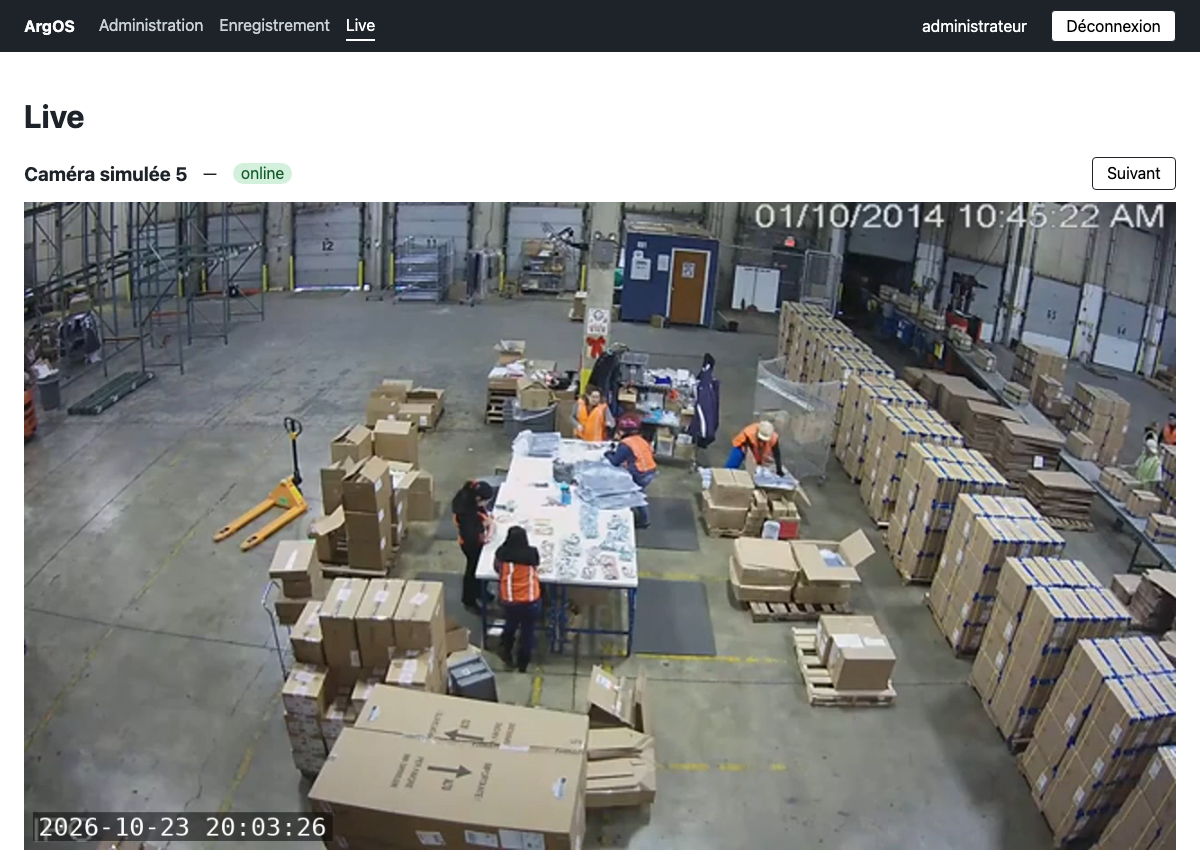
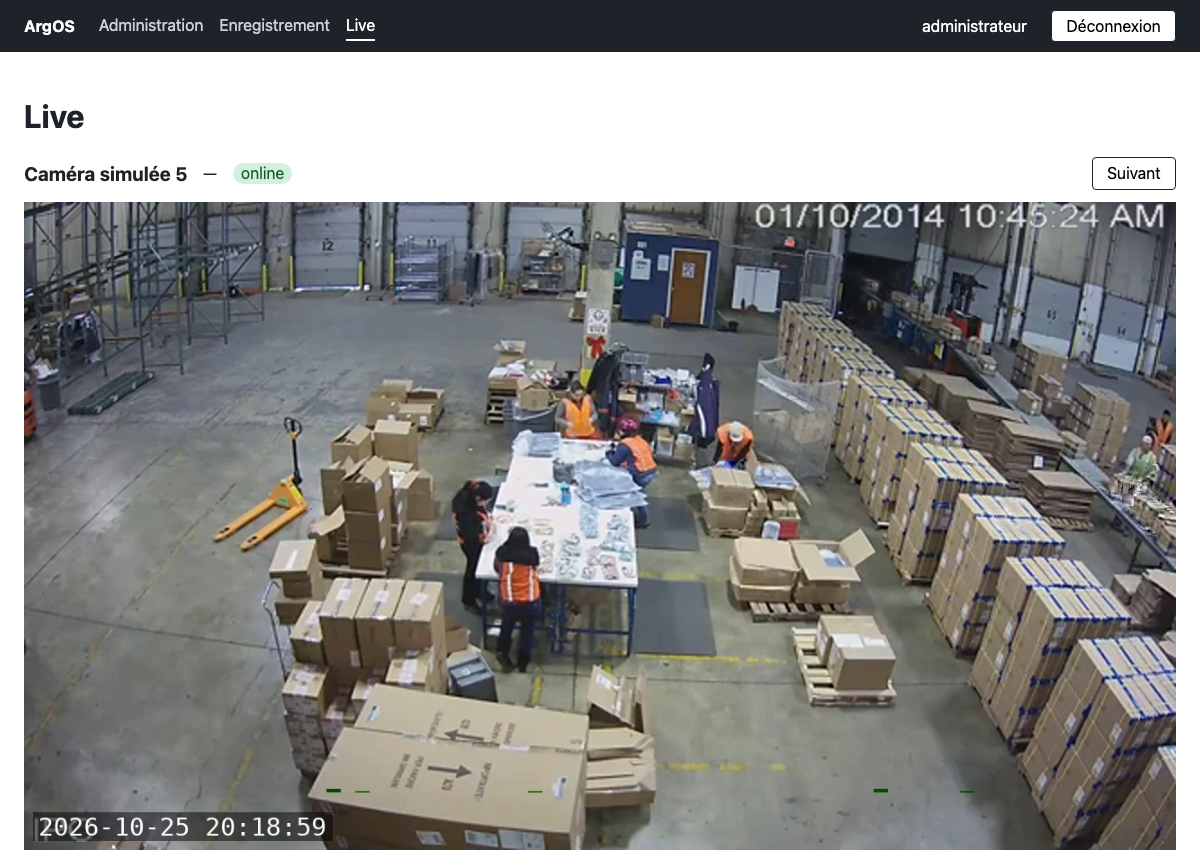
Ajoute les preuves des tests humains de la V0.9.1 et la doc des fonctionnalités de l'heure
Scénarios 9, 10 et 11 joués sur le Site Ubuntu et Cam 01 (chaque fuseau proposé donne la bonne date incrustée), 11 rejoué sur la Caméra simulée 5 ; Cam 01 qualifiée avec son firmware, pages Heure ajoutées à la doc des fonctionnalités.

diff --git a/docs-site/sidebars.ts b/docs-site/sidebars.ts
@@ -24,6 +24,18 @@ const sidebars: SidebarsConfig = {
         },
       ],
     },
+    {
+      type: 'category',
+      label: 'Heure et calage',
+      collapsed: false,
+      items: [
+        {
+          type: 'doc',
+          id: 'features/heure/serveur-de-temps-et-calage',
+          label: 'Serveur de temps et calage',
+        },
+      ],
+    },
   ],
   changelogSidebar: [
     {

diff --git a/docs/features/heure/serveur-de-temps-et-calage.md b/docs/features/heure/serveur-de-temps-et-calage.md
@@ -1,0 +1,130 @@
+# Serveur de temps et calage des Caméras
+
+Comment le Site donne l’heure aux Caméras, ce qu’il envoie comme fuseau (surtout au changement d’heure), ce qu’il ne fait **pas**, et ce que ça implique pour l’incrustation Live et pour les enregistrements.
+
+Décisions : [ADR 0014](../../adr/0014-serveur-de-temps-du-site.md) (Serveur de temps), [ADR 0015](../../adr/0015-mise-a-l-heure-a-chaque-verification.md) (Mise à l’heure + décalage du moment + base des fuseaux). Termes : [Heure du Site](../../glossaire.md#heure-du-site), [Horloge](../../glossaire.md#horloge), [Serveur de temps du Site](../../glossaire.md#serveur-de-temps-du-site), [Mise à l’heure](../../glossaire.md#mise-a-l-heure). Caméras essayées : [Caméras qualifiées](../../cameras/compatibilite.md). Limites réseau / NTP : [sécurité](../../securite.md#réseau-des-caméras--une-sortie-et-ntp).
+
+## En bref
+
+- **`temps`** (chrony) sert l’heure en **NTP (UTC)** sur le réseau des caméras. Il ne règle jamais l’horloge de l’hôte.
+- L’**Heure du Site** (page Admin) fixe la **source** NTP (ex. `pool.ntp.org`) et le **fuseau** (ex. `Europe/Paris`).
+- À chaque **vérification**, le Site **met à l’heure** puis **cale** chaque Caméra ONVIF active : UTC lue chez `temps` + **décalage du moment** du fuseau du Site (sans règles d’heure d’été).
+- La référence, c’est toujours le Site. ArgOS **ne** calcule **pas** un fuseau « compensateur » à partir d’un décalage faux lu sur la caméra.
+- Les **Segments** d’enregistrement sont horodatés en **UTC** : au passage 3 h → 2 h, rien n’est réécrit ; deux instants locaux « 02 h » restent deux fichiers distincts. L’UI peut afficher le même libellé murale deux fois.
+
+## Schéma
+
+```text
+Internet (pool.ntp.org…)              Caméras
+        │                                ▲
+        ▼                                │ NTP (UTC) + ONVIF
+   ┌─────────┐                     ┌──────────┐
+   │  temps  │ ──── NTP ─────────► │ Caméras  │  incrustation = heure locale
+   └─────────┘                     └──────────┘
+        ▲                                ▲
+        │ lit / pilote                   │ Mise à l’heure + calage
+   ┌─────────┐                           │
+   │   api   │───────────────────────────┘
+   └─────────┘
+   Heure du Site = source + fuseau (Europe/Paris…)
+```
+
+Sans macvlan (Mac / Docker Desktop), `temps` publie `123/udp` sur l’hôte. En prod Linux avec réseau des caméras, `temps` a sa propre IP macvlan et ne sert que le NTP ([ADR 0014](../../adr/0014-serveur-de-temps-du-site.md)).
+
+## Heure du Site
+
+Réglages (persistés) :
+
+| Réglage | Rôle |
+| --- | --- |
+| Source | `ntp` (serveur nommé) ou horloge du serveur (repli) |
+| Serveur NTP | ex. `pool.ntp.org` — transmis à `temps` via le volume `reglage-temps` |
+| Fuseau | ex. `Europe/Paris` — défaut = fuseau de l’hôte |
+
+La page **Heure du Site** affiche aussi la **base des fuseaux** utilisée pour calculer les décalages (`2026e (serveur)` = base de l’hôte ; sinon base embarquée dans l’image). Voir [second avenant ADR 0015](../../adr/0015-mise-a-l-heure-a-chaque-verification.md#second-avenant-091--base-des-fuseaux-de-lhôte-dabord).
+
+## Ce que le Site envoie à une Caméra
+
+Depuis la 0.9.1, pour `Europe/Paris` :
+
+| Moment | Décalage envoyé (POSIX simplifié) | Sens |
+| --- | --- | --- |
+| Heure d’été | `CEST-2` | UTC+2 |
+| Heure d’hiver | `CET-1` | UTC+1 |
+
+- **Pas** la chaîne complète avec règles d’heure d’été (`CET-1CEST,M3.5.0,M10.5.0/3`) : beaucoup de caméras (ex. [Cam 01](../../cameras/compatibilite.md#cam-01)) ne les appliquent pas et restent bloquées à un mauvais offset.
+- `DaylightSavings` est toujours envoyé à **`false`** : on ne compte pas sur la caméra pour « savoir » qu’on a changé d’heure.
+- Si l’abréviation n’est pas utilisable (`+01`, `UTC`, `GMT`), le Site envoie un nom neutre (`ARGOS-1`, `ARGOS0`).
+
+### Ce que le Site ne fait pas
+
+Il **ne** lit **pas** un fuseau faux sur la caméra pour en déduire un offset qui « annule » l’écart.
+
+Enchaînement réel :
+
+1. Calculer le décalage **juste** du fuseau du Site (base des fuseaux).
+2. Pousser UTC + ce décalage (Mise à l’heure), puis recaler en NTP vers le Serveur de temps.
+3. Relire l’Horloge : écart ≤ 2 s **et** bon décalage → « à l’heure » ; sinon → **« écart »** (journal API).
+
+Exemple : caméra coincée en UTC+2 en hiver → le Site continue d’envoyer `CET-1` aux vérifs suivantes ; il ne lui envoie pas un « UTC+0 compensateur ».
+
+## Quand a lieu une vérification
+
+- Ajout d’une Caméra / changement de l’Heure du Site.
+- **Toutes les heures.**
+- Bouton **« Vérifier maintenant »**.
+- **À l’instant exact** de chaque changement d’heure du fuseau du Site (recalculé après chaque changement et à chaque changement de fuseau).
+
+À chaque vérification ONVIF active : Mise à l’heure puis calage ([ADR 0015](../../adr/0015-mise-a-l-heure-a-chaque-verification.md)).
+
+Site arrêté pendant un changement d’heure : au redémarrage, la vérification horaire reprend et corrige.
+
+## Exemple concret : passage 3 h → 2 h (France)
+
+Dimanche de passage à l’heure d’hiver (3 h légales → 2 h) :
+
+1. La base des fuseaux sait que `Europe/Paris` passe de UTC+2 à UTC+1.
+2. ArgOS a mémorisé l’instant du prochain changement.
+3. À cet instant, vérification de **toutes** les Caméras actives.
+4. Chaque Caméra ONVIF reçoit `CET-1` (plus l’UTC de `temps`), puis le calage NTP.
+5. Quelques secondes peuvent séparer le coup d’horloge légal et la fin de la vérif : une caméra peut encore afficher l’ancien décalage le temps de la passe.
+
+L’UTC côté NTP **ne recule pas**. Seul l’affichage / l’incrustation locale change de décalage.
+
+## Enregistrements et relecture
+
+Les Segments fMP4 sont nommés et lus en **heure UTC du conteneur** (`%Y-%m-%d_%H-%M-%S-%f`, voir `api/argos_api/segments_fermes.py`). La relecture demande un `start` en RFC 3339 (absolu).
+
+Au passage 3 h → 2 h :
+
+- **Rien n’est réécrit** ni écrasé pour « libérer » l’heure locale.
+- Les deux plages locales « 02 h – 03 h » de ce dimanche correspondent à **deux intervalles UTC distincts** → deux suites de Segments distincts.
+- La timeline ordonne au temps réel (UTC), pas à l’horloge murale ambiguë.
+
+### Affichage dans l’UI
+
+Les libellés de relecture passent par l’heure locale du navigateur (`toLocaleString` / `toLocaleTimeString`). Il n’y a **pas** de mode « deux fuseaux » ni de sélecteur « première / deuxième 2 h ».
+
+Conséquence : deux Segments distincts peuvent afficher le **même** texte « 02:15 ». L’ordre sur la timeline et le `start` cliqué restent univoques.
+
+*(Si l’horloge de l’hôte est fausse et que `temps` est en repli dessus, les Segments peuvent être mal datés — limite ADR 0014, indépendante du changement d’heure.)*
+
+## Compatibilité caméras
+
+La stratégie « décalage du moment » vise à marcher :
+
+- pour une caméra qui **ignore** l’heure d’été ;
+- pour une caméra qui **saurait** l’appliquer (on ne lui demande pas).
+
+Ce n’est **pas** une garantie pour toute caméra du marché :
+
+- sans ONVIF utile → pas de calage (« sans ONVIF ») ;
+- comportement exotique (sens de `UTC` inversé, refus du mode manuel, autre décalage gardé) → **« écart »** jusqu’à qualification ou bug.
+
+Procédure et liste : [Caméras qualifiées](../../cameras/compatibilite.md).
+
+## Voir aussi
+
+- Page Admin **Heure du Site** (source, fuseau, base des fuseaux, tableau des Caméras).
+- [Paramétrer une Caméra](../../cameras/parametrer-une-camera.md) (ONVIF, essais manuels).
+- [Inspecter les enregistrements](../../cameras/inspecter-les-enregistrements.md) (volume, noms de Segments).

diff --git a/docs/cameras/compatibilite.md b/docs/cameras/compatibilite.md
@@ -8,7 +8,7 @@ Pour aller plus loin : [Paramétrer une Caméra](parametrer-une-camera.md), [ADR
 
 | Caméra | Marque, modèle, firmware (`GetDeviceInformation`) | Ce qu'elle fait d'un fuseau | Ce qu'Argos lui envoie | Qualifiée |
 | --- | --- | --- | --- | --- |
-| [`Cam 01`](#cam-01) | `H264`, `IPC_GK7201V200_G3H_S38` (puce Goke, firmware XiongMai) ; version du firmware à relever | Garde le décalage seul, jamais d'heure d'été, `UTC` lu à l'envers | Décalage du moment (`CEST-2` / `CET-1`), `DaylightSavings=false`, ONVIF en HTTP sur `8899` | 0.9.1 |
+| [`Cam 01`](#cam-01) | `H264`, `IPC_GK7201V200_G3H_S38` (puce Goke, firmware XiongMai), firmware `V1.00.T01.000929ST.10010.141000.S.ONVIF 21.06` | Garde le décalage seul, jamais d'heure d'été, `UTC` lu à l'envers | Décalage du moment (`CEST-2` / `CET-1`), `DaylightSavings=false`, ONVIF en HTTP sur `8899` | 0.9.1 |
 
 ### Cam 01
 
@@ -22,7 +22,7 @@ La caméra de dev décrite dans [Paramétrer une Caméra](parametrer-une-camera.
 | `UTC-2` | `FNT2` | UTC−2 ❌ (sens inversé) |
 | `CET-1` | `CET-1CEST` | UTC+1 ✅ (hiver) |
 
-Elle ne garde que le décalage du fuseau (en le renommant à sa façon), n'applique jamais l'heure d'été et inverse le sens d'un fuseau nommé `UTC`. Depuis la 0.9.1, le Site lui envoie le décalage du moment, sans règles ([avenant à l'ADR 0015](../adr/0015-mise-a-l-heure-a-chaque-verification.md#avenant-091--fuseau-envoyé-en-décalage-du-moment)) : sa date incrustée est l'heure locale du Site, été comme hiver, et le Site la recale à chaque changement d'heure. Ce décalage vient de la base des fuseaux du serveur ([second avenant](../adr/0015-mise-a-l-heure-a-chaque-verification.md#second-avenant-091--base-des-fuseaux-de-lhôte-dabord)) : pour qualifier une caméra, noter la base affichée sur la page Heure du Site. La Caméra simulée 5 l'imite (`ONVIF_FUSEAU_DECALAGE_SEUL`, [simulation ONVIF](../../simulation/onvif/README.md)).
+Elle ne garde que le décalage du fuseau (en le renommant à sa façon), n'applique jamais l'heure d'été et inverse le sens d'un fuseau nommé `UTC`. Depuis la 0.9.1, le Site lui envoie le décalage du moment, sans règles ([avenant à l'ADR 0015](../adr/0015-mise-a-l-heure-a-chaque-verification.md#avenant-091--fuseau-envoyé-en-décalage-du-moment)) : sa date incrustée est l'heure locale du Site, été comme hiver, et le Site la recale à chaque changement d'heure. Ce décalage vient de la base des fuseaux du serveur ([second avenant](../adr/0015-mise-a-l-heure-a-chaque-verification.md#second-avenant-091--base-des-fuseaux-de-lhôte-dabord)) : pour qualifier une caméra, noter la base affichée sur la page Heure du Site. Qualifiée le 25/10/2026 (tests humains de la 0.9.1, #148) : les 23 fuseaux proposés par Heure du Site, un par un, en heure d'hiver, donnent la date incrustée de l'heure locale de chaque fuseau (à la latence du Live près) ; elle garde `ARGOS0` en `UTC0`. La Caméra simulée 5 l'imite (`ONVIF_FUSEAU_DECALAGE_SEUL`, [simulation ONVIF](../../simulation/onvif/README.md)).
 
 ## Qualifier une nouvelle caméra
 

diff --git a/docs/adr/0014-serveur-de-temps-du-site.md b/docs/adr/0014-serveur-de-temps-du-site.md
@@ -1,5 +1,7 @@
 # Serveur de temps du Site sur le réseau des caméras
 
+Vue produit (calage, changement d’heure, enregistrements) : [Serveur de temps et calage des Caméras](../features/heure/serveur-de-temps-et-calage.md).
+
 Complète l'[ADR 0003](0003-macvlan-sur-la-prise-des-cameras.md) : le réseau des caméras n'est plus « une sortie seulement ». Un nouveau service **`temps`** (chrony, image `ghcr.io/ulyssoulv/argos-temps`, même canal que les autres images, ADR 0010) y sert l'heure en **NTP, UDP 123, et rien d'autre**, à une **seconde IP fixe** hors DHCP réservée par le script réseau. `api` garde son IP macvlan et n'y sert toujours rien. Sans macvlan (Mac / Docker Desktop, ou install sans le script réseau), `temps` publie `123/udp` sur l'hôte et le Site annonce son IP.
 
 chrony tourne avec **`-x`** : il ne règle jamais l'horloge de l'hôte (pas de `SYS_TIME`), et sert l'heure qu'il estime d'après sa source. Source par défaut `pool.ntp.org`, repli sur l'horloge du serveur quand elle est injoignable ; l'Administrateur la change dans l'Heure du Site. `api` la transmet par un fichier d'un volume partagé, en lecture seule pour `temps`, qui relance chronyd quand il change (lui retirer sa source par `chronyc` ne le ramène pas sur l'horloge du serveur : il garde sa dernière estimation) ; `api` lit la source effectivement servie en interrogeant `temps` en NTP, comme une caméra (identifiant de référence `127.127.1.1` : l'horloge du serveur). Les Caméras sont calées par ONVIF (`SetNTP` manuel vers l'IP annoncée, `SetSystemDateAndTime` en mode NTP au fuseau du Site), jamais par DHCP. Toutes les heures (et sur « Vérifier maintenant »), le Site relit l'Horloge de chaque Caméra active (`GetSystemDateAndTime`, `GetNTP`) : il la recale si elle n'est plus en NTP vers cette IP au fuseau du Site, et signale sans rien faire de plus un écart de plus de 2 s sur une Caméra calée.

diff --git a/docs/adr/0015-mise-a-l-heure-a-chaque-verification.md b/docs/adr/0015-mise-a-l-heure-a-chaque-verification.md
@@ -1,5 +1,7 @@
 # Mise à l’heure des Caméras à chaque vérification
 
+Vue produit (calage, changement d’heure, enregistrements) : [Serveur de temps et calage des Caméras](../features/heure/serveur-de-temps-et-calage.md).
+
 Complète l'[ADR 0014](0014-serveur-de-temps-du-site.md) : une Caméra calée (mode NTP vers le Serveur de temps du Site, fuseau du Site) peut quand même dériver, parce que son client NTP n'interroge le serveur qu'au démarrage ou trop rarement. Le Site ne s'en remet donc plus au seul NTP de la caméra. À **chaque** vérification (ajout, changement de l'Heure du Site, toutes les heures, « Vérifier maintenant »), il **met à l'heure** chaque Caméra ONVIF active : il lit l'heure en NTP auprès de `temps`, la pousse par `SetSystemDateAndTime` en mode manuel (UTC, fuseau du Site), puis recale la caméra comme en 0.9.0 (`SetNTP` vers l'IP annoncée, mode NTP au fuseau du Site) et relit son Horloge. Une faute sur la mise à l'heure n'arrête pas le calage : l'écart relu décide de l'état.
 
 La **dérive** (avant) et l'**écart** (après) se mesurent contre l'heure servie par `temps` (la source choisie dans l'Heure du Site, ou son repli), plus contre l'horloge de l'OS de `api`. Sans réponse de `temps`, rien n'est poussé ni mesuré : la caméra est recalée et marquée en échec.

diff --git a/docs/features/index.md b/docs/features/index.md
@@ -10,3 +10,7 @@ Sommaire produit — à compléter (une page ou catégorie par capacité livrée
 
 - [Schéma du réseau et des Flux](reseau/schema-flux.md) : conteneurs, ports publiés et fermés, réseaux, et chaque flux, chiffré ou en clair.
 - [Installer l’Autorité du Site](reseau/installer-l-autorite-du-site.md) : reconnaître le Site en HTTPS sur macOS, iOS, Windows et Android ; empreinte ; certificat fourni ; perte de l’Autorité.
+
+## Heure et calage
+
+- [Serveur de temps et calage des Caméras](heure/serveur-de-temps-et-calage.md) : NTP du Site, fuseau en décalage du moment, changement d’heure, Mise à l’heure, enregistrements en UTC et affichage relecture.
